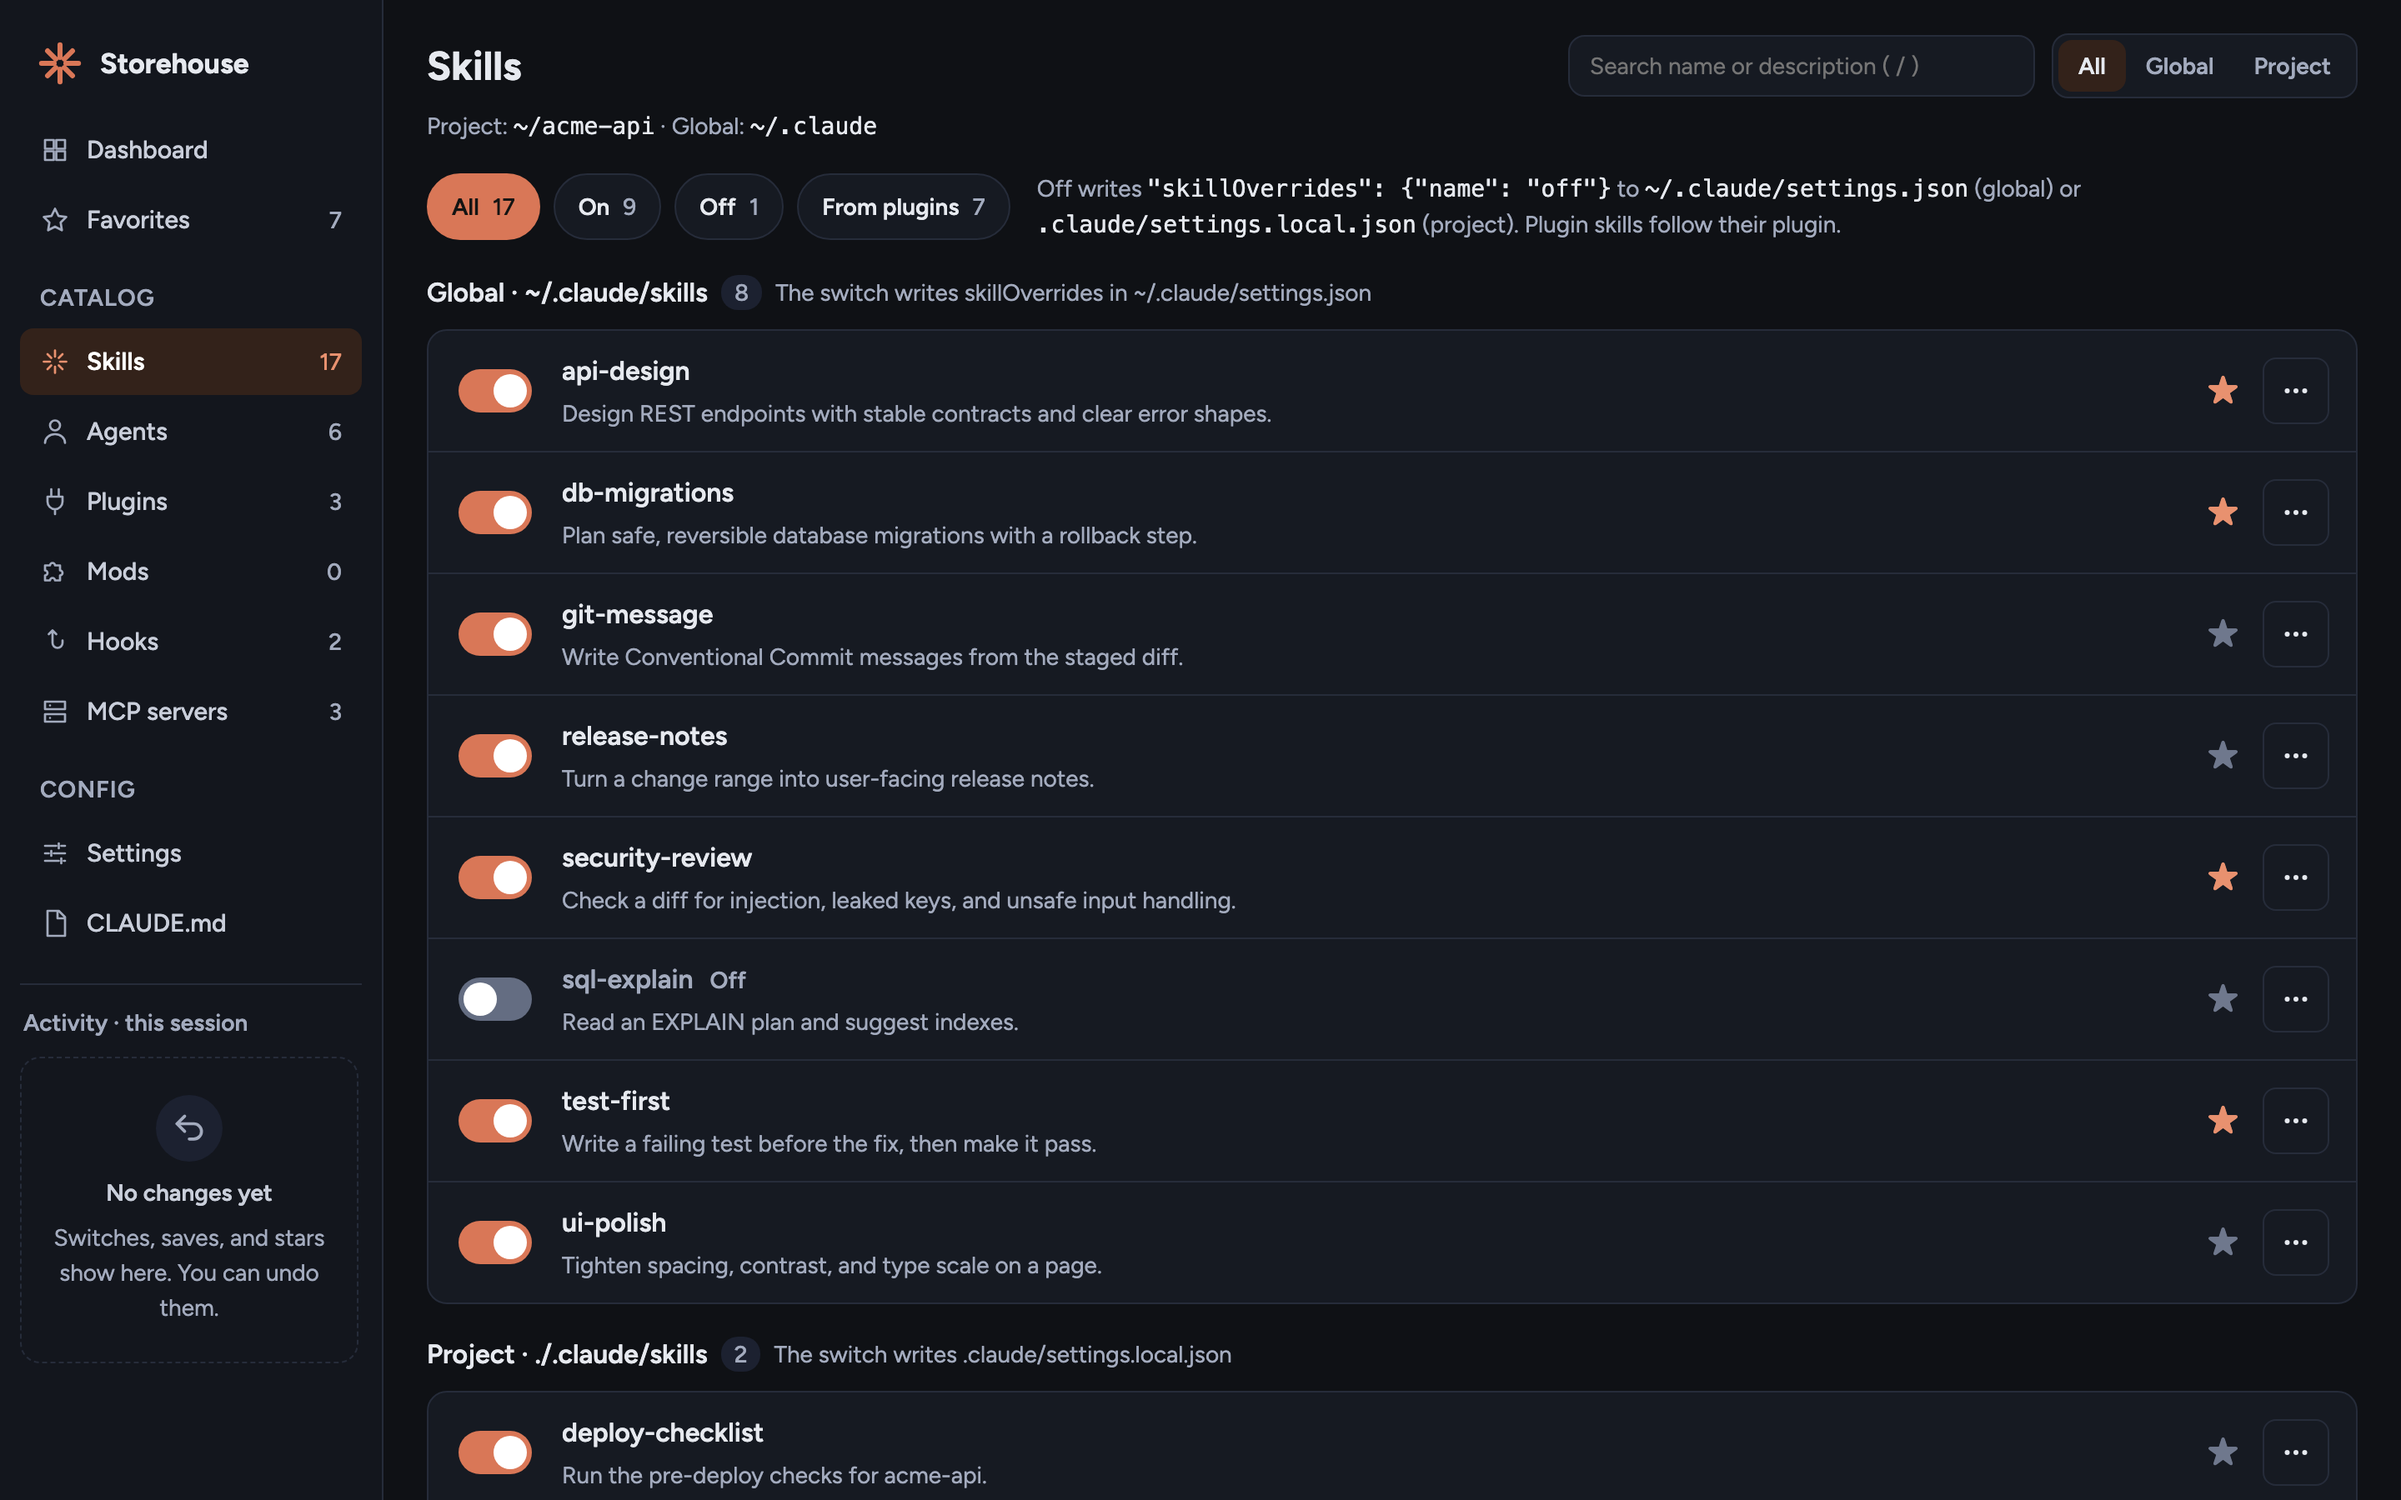
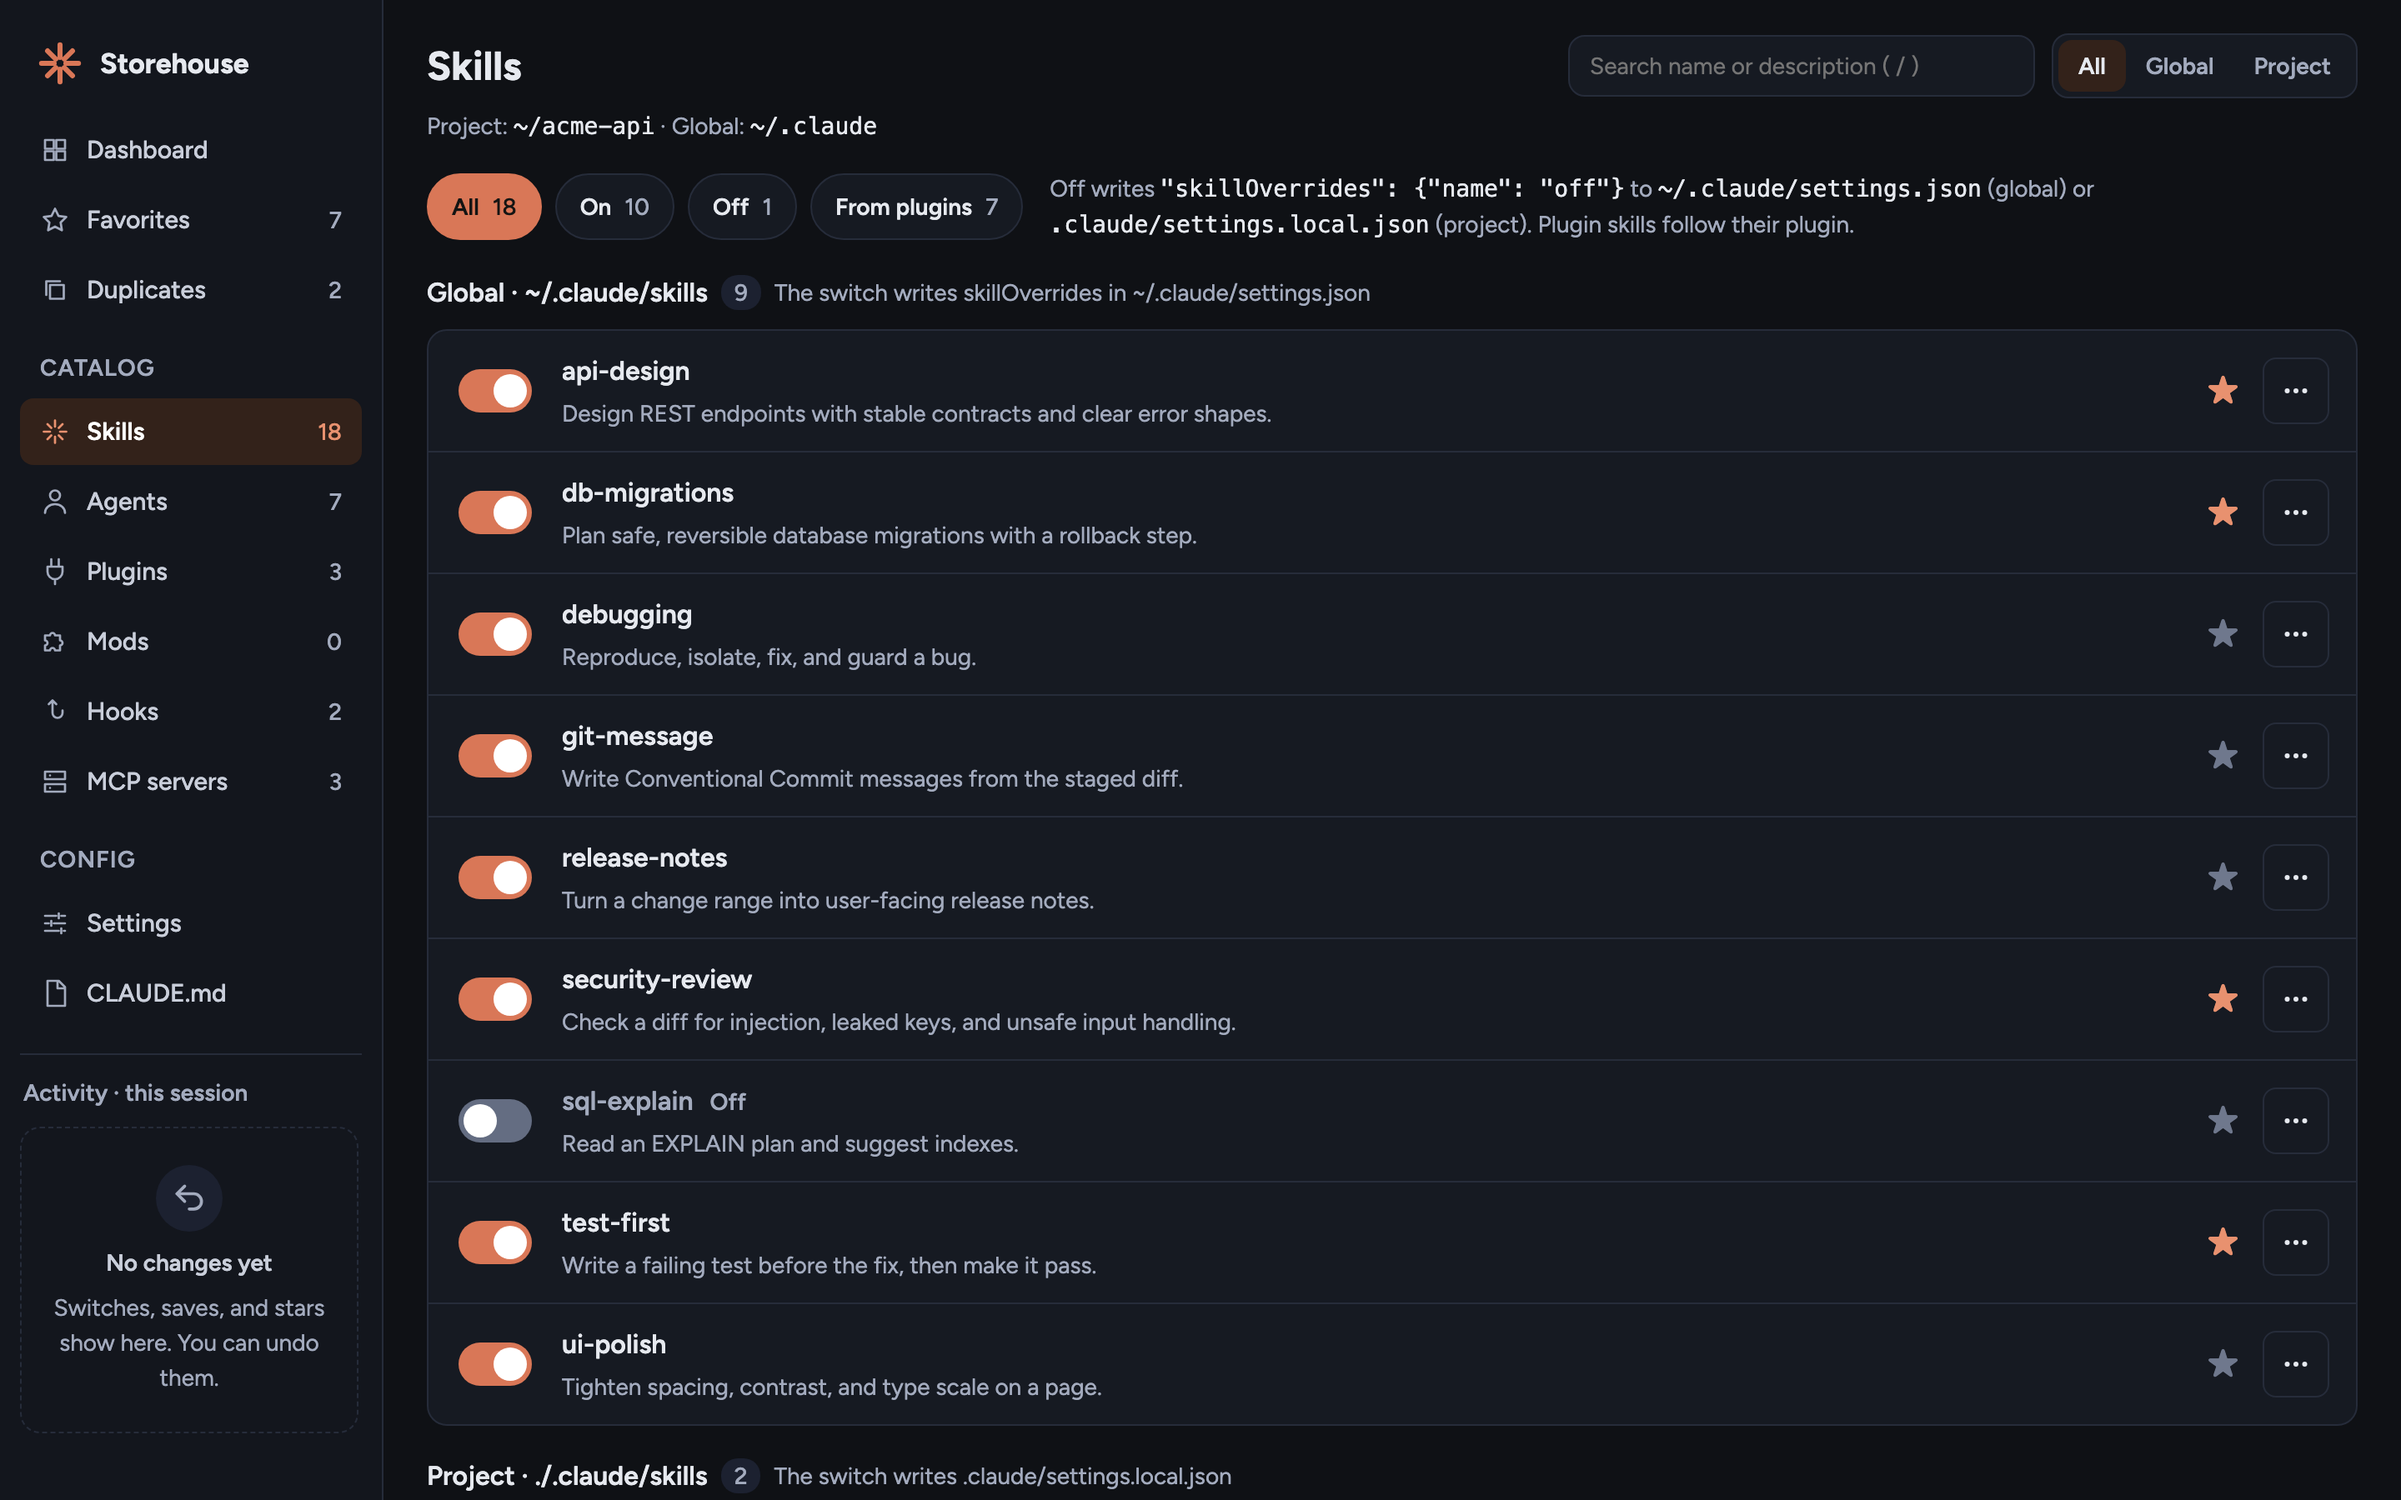
docs(site): add Duplicates to website, README, and screenshots

diff --git a/site/index.html b/site/index.html
@@ -157,6 +157,7 @@
             <div class="demo-tabs" role="tablist" aria-label="Demo page">
               <button role="tab" aria-selected="true" data-page="dash">Dashboard</button>
               <button role="tab" aria-selected="false" data-page="fav">Favorites</button>
+              <button role="tab" aria-selected="false" data-page="dups">Duplicates</button>
               <button role="tab" aria-selected="false" data-page="skills">Skills</button>
               <button role="tab" aria-selected="false" data-page="plugins">Plugins</button>
               <button role="tab" aria-selected="false" data-page="hooks">Hooks</button>
@@ -341,6 +342,31 @@
             <img
               src="screenshots/editor.png"
               alt="A skill open in the drawer editor with Save, the file path, and the Activity log with undo buttons"
+              loading="lazy"
+              width="2880"
+              height="1800"
+              data-zoom
+            />
+          </figure>
+        </div>
+        <div class="wrap feature">
+          <div class="txt">
+            <h3>Find duplicates</h3>
+            <p>
+              The Duplicates page groups skills, agents, and MCP servers that use the same name, so you know which one
+              Claude Code loads.
+            </p>
+            <ul>
+              <li>Conflict when more than one item in a group is on</li>
+              <li>Keep only this switches off the others in one click</li>
+              <li>Plugin items name the plugin that controls them</li>
+            </ul>
+            <a class="more" href="#demo" data-demo="dups">Find duplicates in the demo →</a>
+          </div>
+          <figure class="frame">
+            <img
+              src="screenshots/duplicates.png"
+              alt="Duplicates page with two same-name groups, each marked Conflict, and a Keep only this button on each item"
               loading="lazy"
               width="2880"
               height="1800"

diff --git a/site/site.js b/site/site.js
@@ -5,6 +5,7 @@
   const PAGE_NAMES = {
     dash: 'Dashboard',
     fav: 'Favorites',
+    dups: 'Duplicates',
     skills: 'Skills',
     agents: 'Agents',
     plugins: 'Plugins',

diff --git a/README.md b/README.md
@@ -80,6 +80,14 @@ After a few months with Claude Code you have dozens of skills, a handful of plug
 
 ![Skills page with on/off switches, favorites, and the file each switch writes](https://raw.githubusercontent.com/Sumonta056/claude-storehouse/main/docs/images/skills.png)
 
+### Find duplicates
+
+- The Duplicates page groups skills, agents, and MCP servers of one type that use the same name.
+- A group shows Conflict when more than one item in it is on, so you know Claude Code loads both.
+- Keep only this switches off the other items in the group. Plugin items name the plugin that controls them.
+
+![Duplicates page with two same-name groups marked Conflict and a Keep only this button on each item](https://raw.githubusercontent.com/Sumonta056/claude-storehouse/main/docs/images/duplicates.png)
+
 ### Favorites
 
 - Star the skills, agents, and plugins you use most, and drag them into order.
